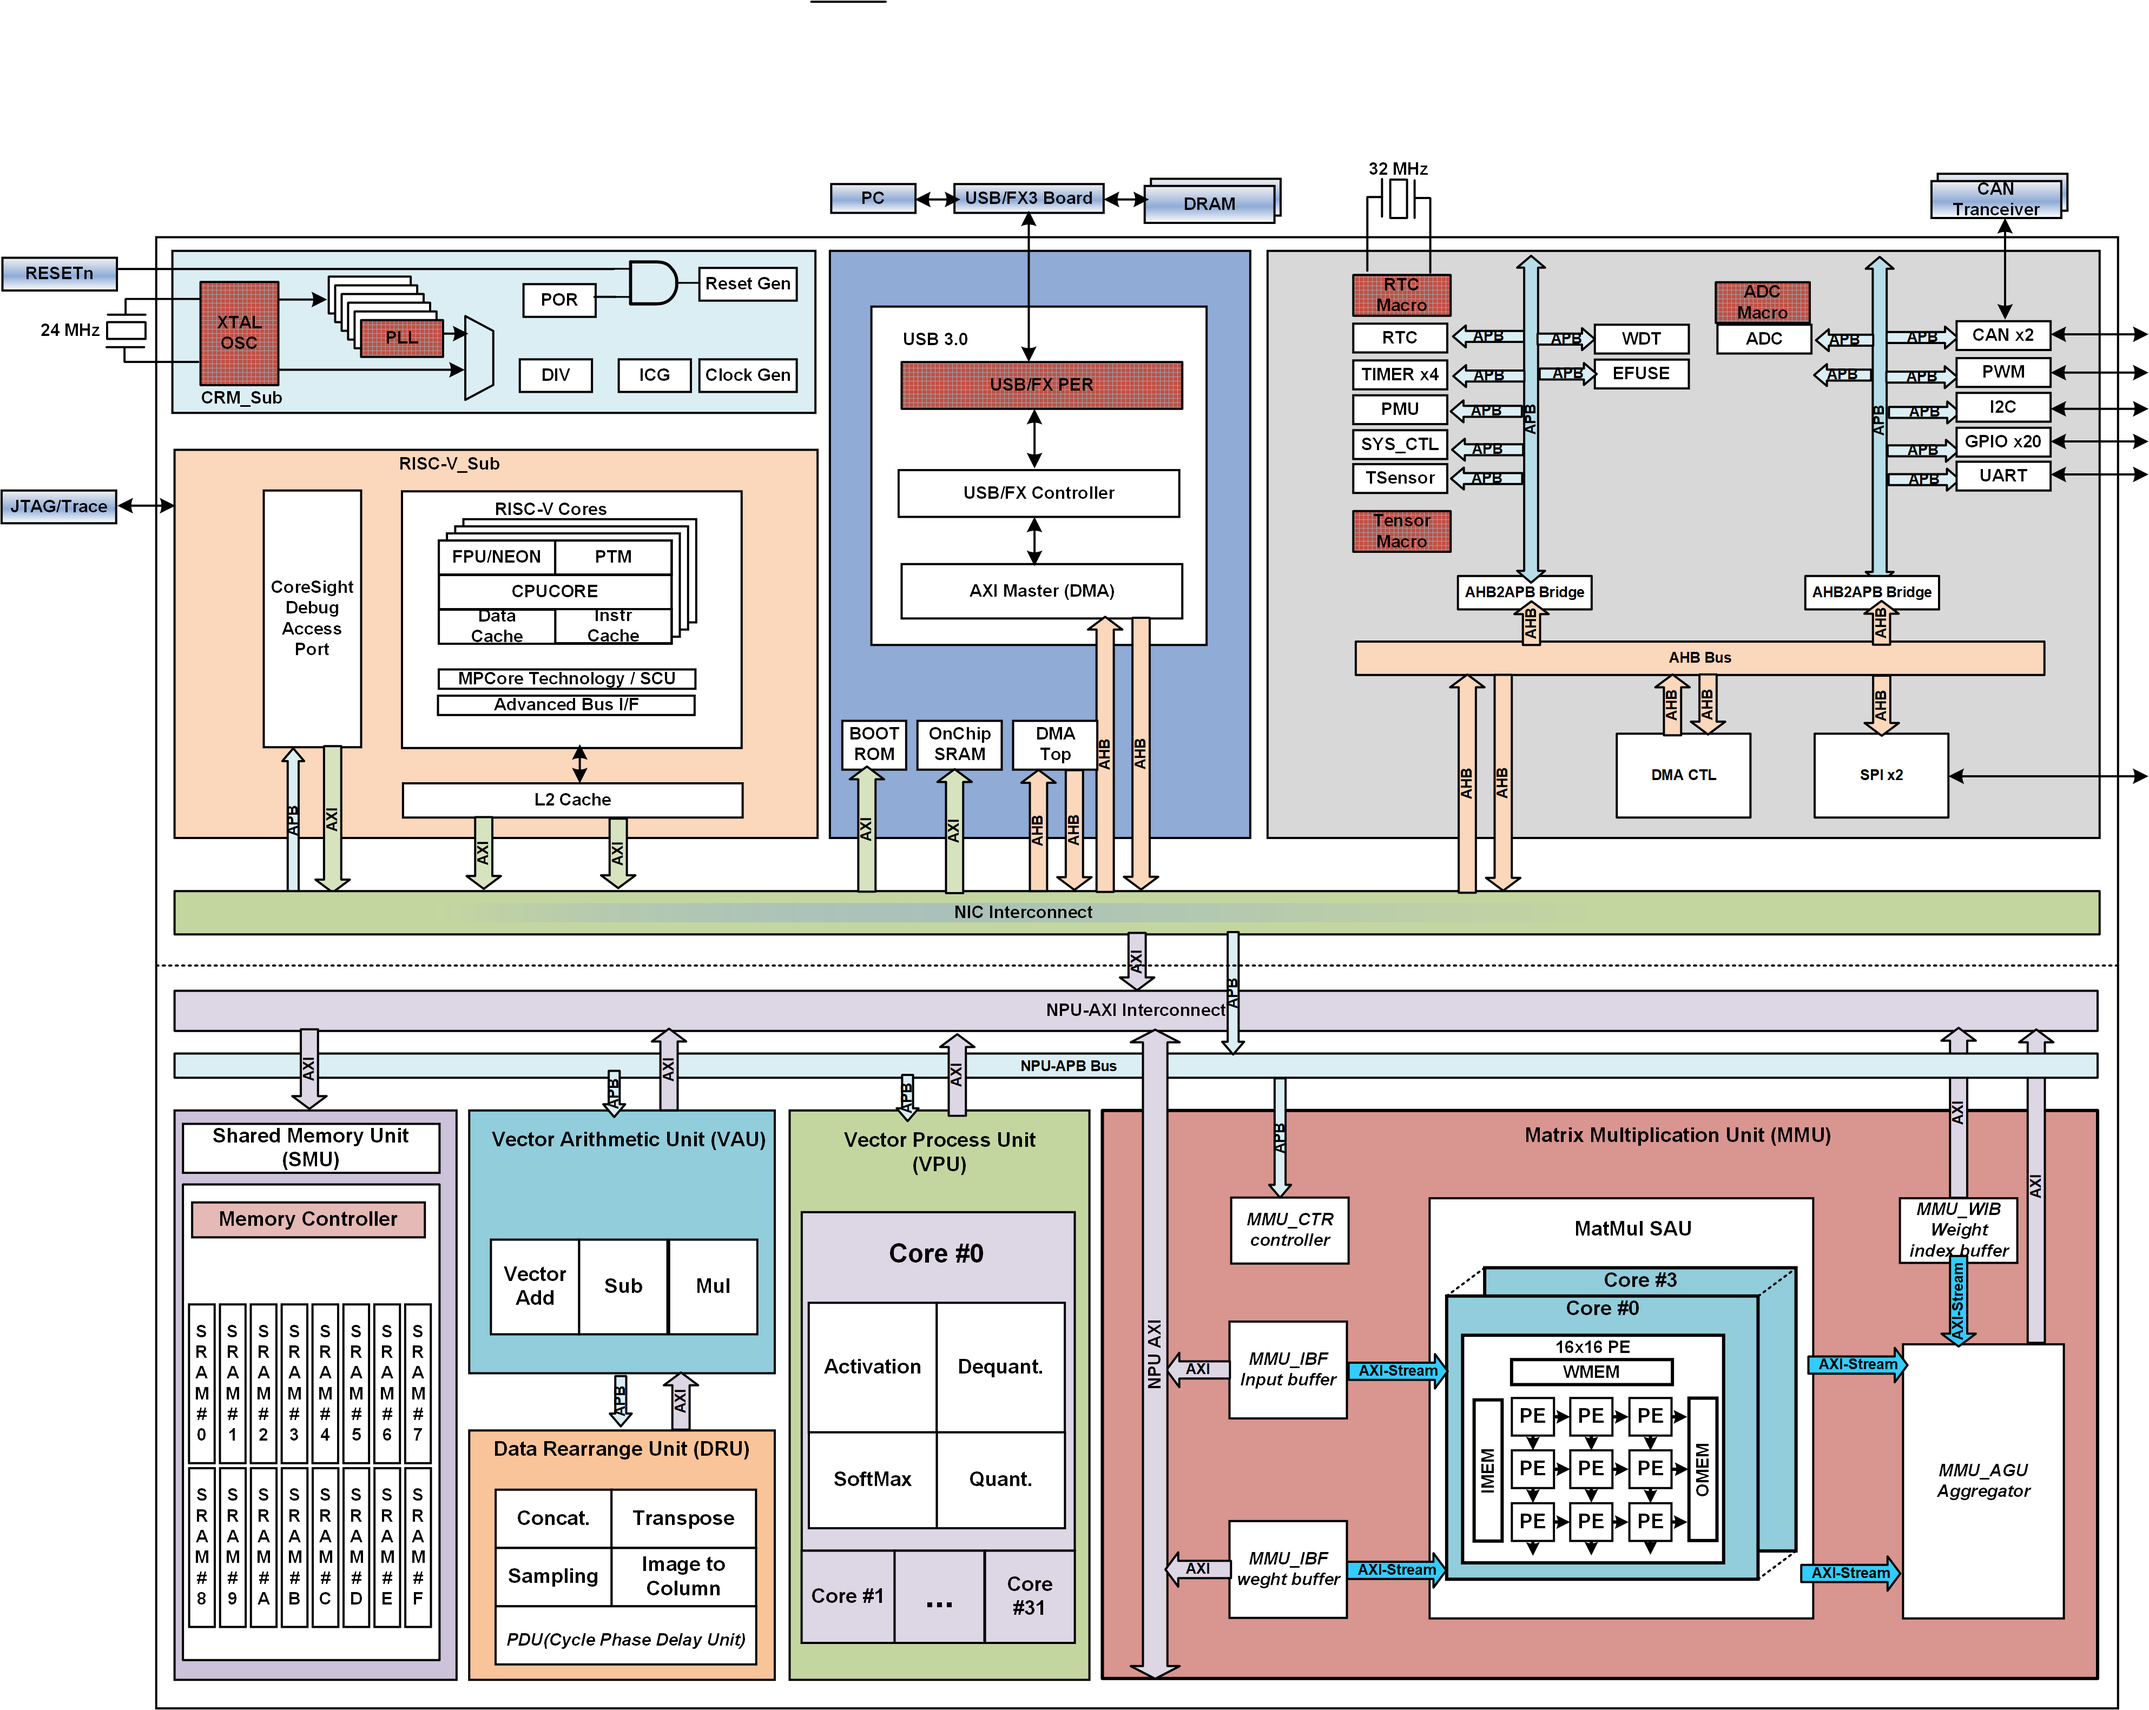
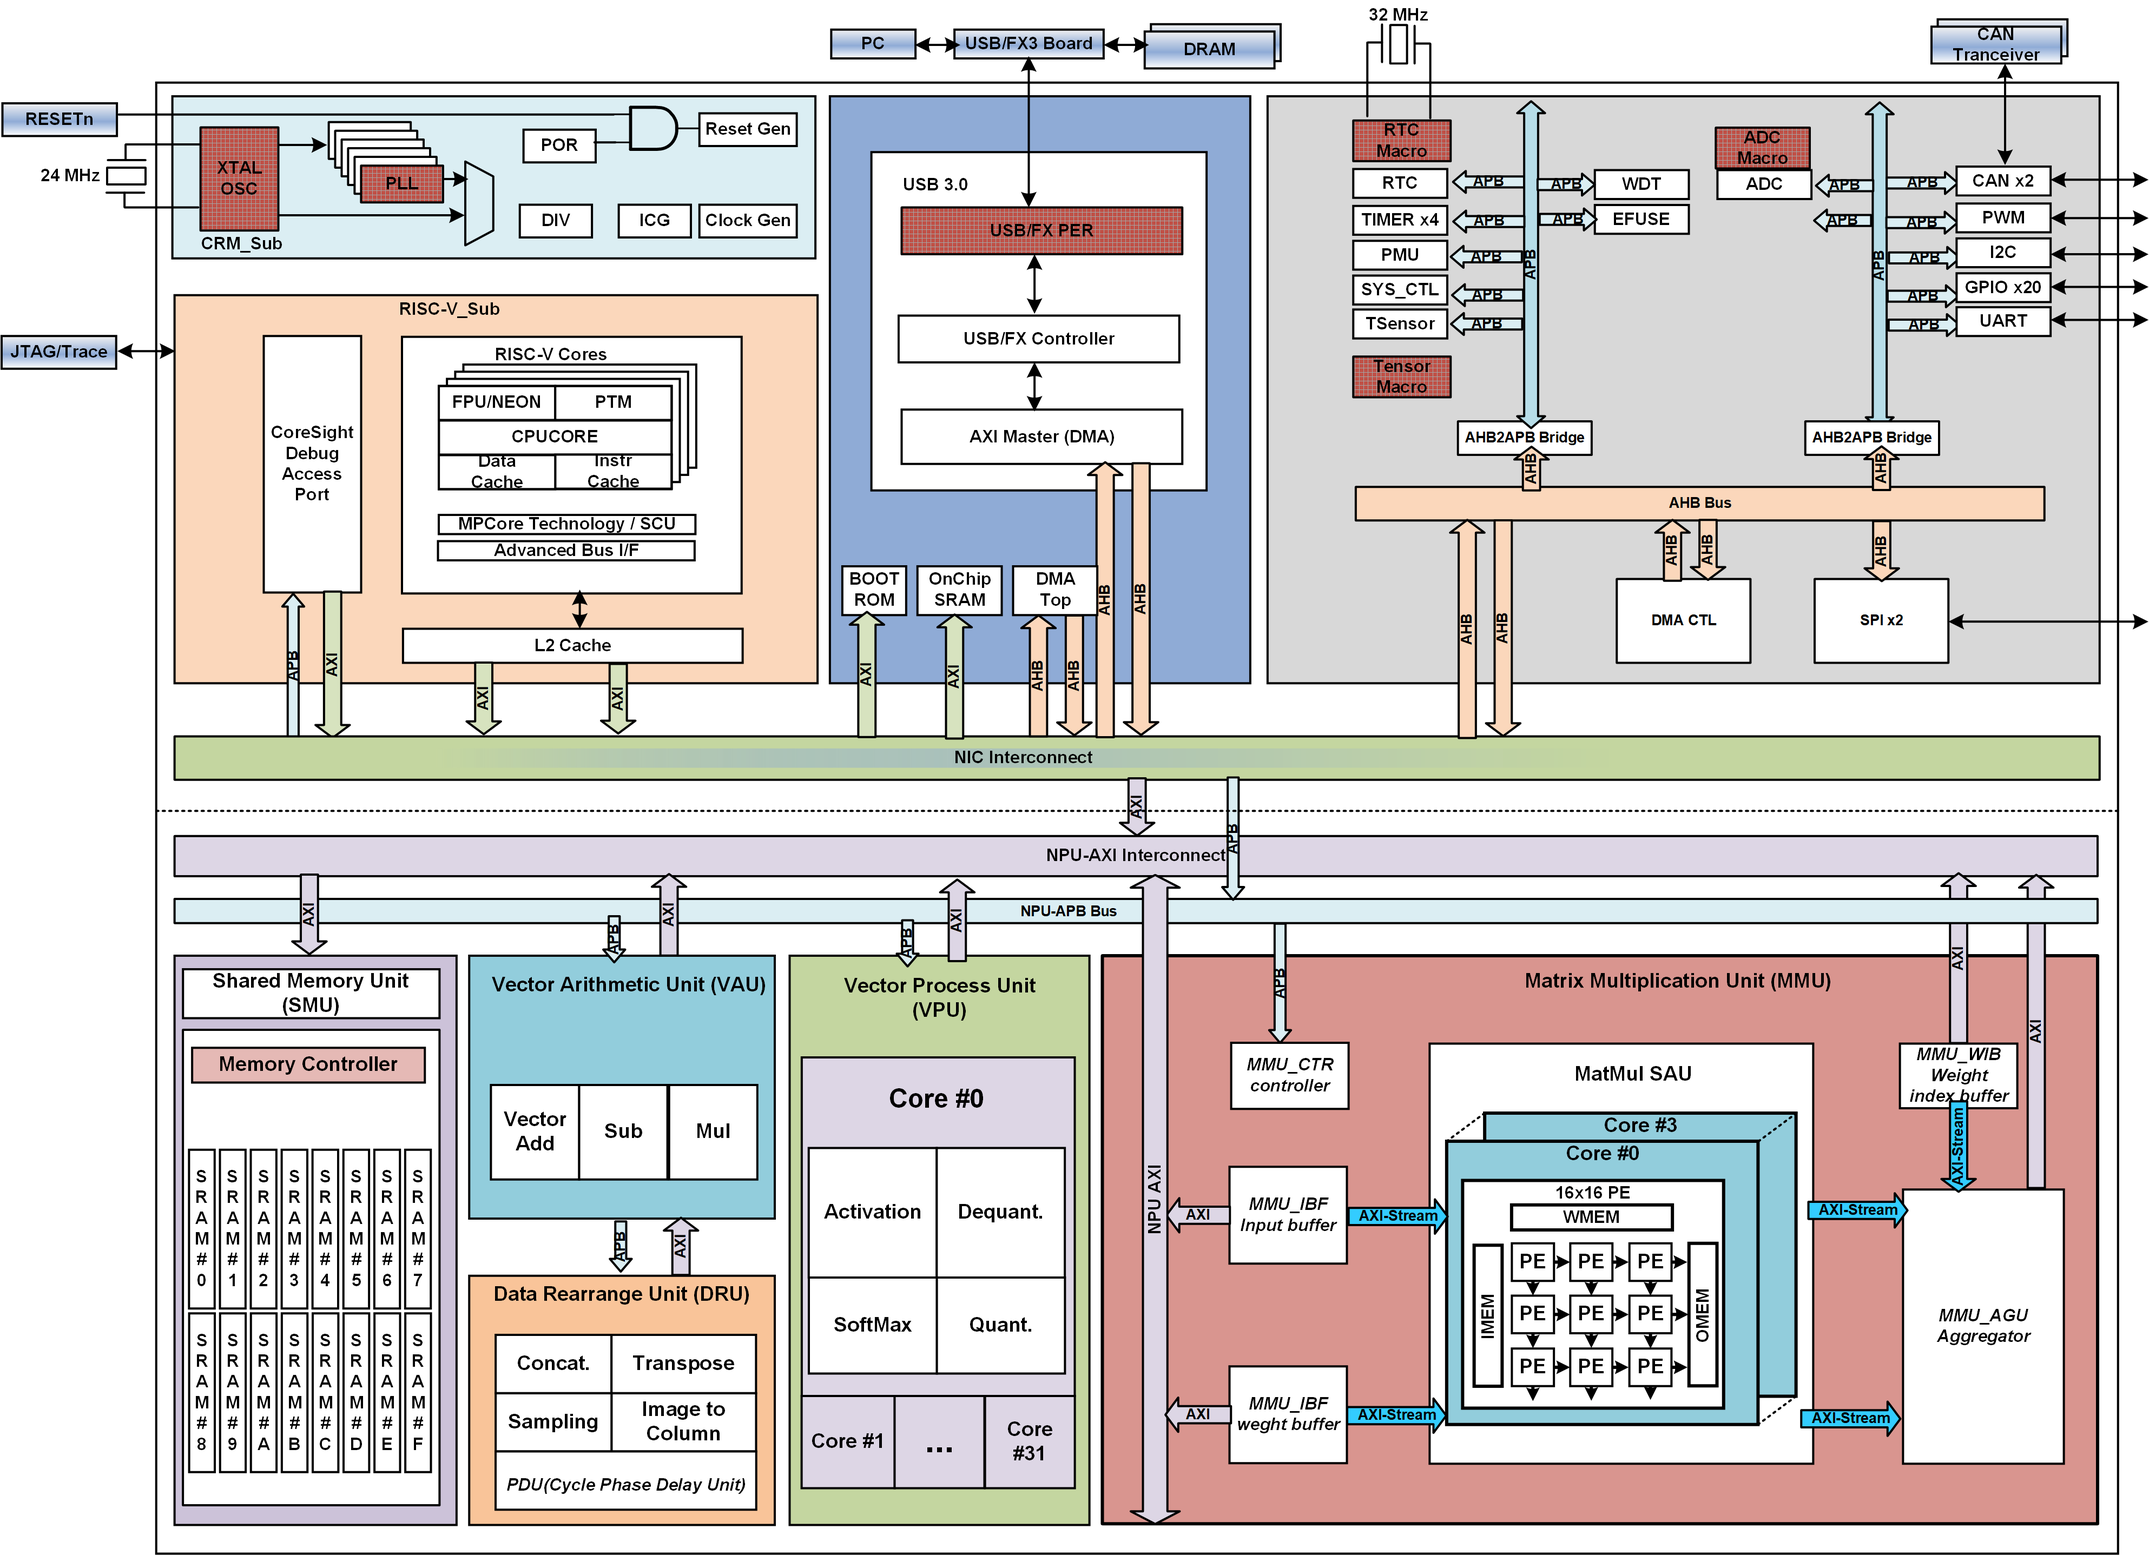
style(about.md): size of soc and systems

diff --git a/_pages/about.md b/_pages/about.md
@@ -34,7 +34,7 @@ I work on designing heterogeneous chips with tape-out validation, targeting prac
 
 
 
-<img src="../images/SOC.png" alt="Impact Diagram" width="80%">
+<img src="../images/SOC.png" alt="Impact Diagram" width="70%">
 
 
 
@@ -48,7 +48,7 @@ I also develop end-to-end serving systems that enable AI deployment on FPGAs or 
 
 
 
-<img src="../images/AI_Chip_System.png" alt="Impact Diagram" width="80%">
+<img src="../images/AI_Chip_System.png" alt="Impact Diagram" width="70%">
 
 
 
